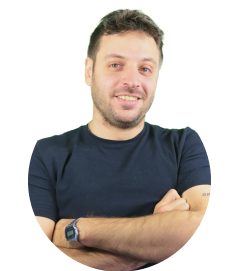
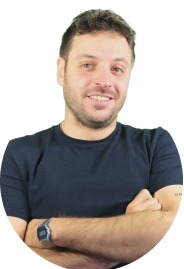
Creación de estilo de AboutTeam para mobile implementando metodología BEM

Changed region(s): [[0.0, 0.0297, 1.0, 1.0]]

diff --git a/src/components/About/AboutTeam.js b/src/components/About/AboutTeam.js
@@ -1,7 +1,7 @@
 import React from 'react';
 
-// Logos
-import linkedinLogo from "../../assets/img/icons/aboutLinkedinLogo.png";
+// Componentes
+import AboutTeamCard from './AboutTeamCard';
 
 // Team avatars
 import jobCarreraAvatar from "../../assets/img/team/jobCarreraDiaz.png";
@@ -11,144 +11,45 @@ import pedroNicholsonAvatar from "../../assets/img/team/pedroNicholson.png";
 import juanPorrazzoAvatar from "../../assets/img/team/juanPorrazzo.png";
 
 function AboutTeam() {
-
+    const teamList = [
+        {
+            name: "Job Carrera Diaz",
+            function: "Dir. de inmuebles",
+            linkedin: "https://www.linkedin.com/in/job-carrera-diaz-3471a325/",
+            avatar: jobCarreraAvatar
+        },
+        {
+            name: "Mariela Schenone",
+            function: "Dir. de estructuración financiera",
+            linkedin: "https://www.linkedin.com/in/mariela-schenone-1890a43/",
+            avatar: marielaScheloneAvatar
+        },
+        {
+            name: "Pedro Silvestri",
+            function: "Dir. financiero",
+            linkedin: "https://www.linkedin.com/in/pedro-silvestri-07300b2a/",
+            avatar: pedroSilvestriAvatar
+        },
+        {
+            name: "Pedro Nicholson",
+            function: "Dir. de legales",
+            linkedin: "https://www.linkedin.com/in/pedro-nicholson-ba737b9/",
+            avatar: pedroNicholsonAvatar
+        },
+        {
+            name: "Juan Porrazzo",
+            function: "Tech",
+            linkedin: "https://www.linkedin.com/in/juan-porrazzo-969b8383/",
+            avatar: juanPorrazzoAvatar
+        }
+    ]
     return (
-        <section className="aboutTeam">
-            <h2>Conoce al equipo</h2>
+        <section id="aboutTeam">
+            <h2 className='section_subTitle'>Conoce al equipo</h2>
             <ul>
-                <li>
-                    <div className="aboutTeamImage">
-                        <div>
-                            <img
-                                id='jobCarreraAvatar'
-                                alt="aboutTeamMemberImg"
-                                src={jobCarreraAvatar}
-                            />
-                        </div>
-                    </div>
-                    <div className="aboutTeamInfo">
-                        <h3>Job Carrera Diaz</h3>
-                        <p>Director de inmuebles</p>
-                        <a 
-                            target="_blank"
-                            href="https://www.linkedin.com/in/job-carrera-diaz-3471a325/"
-                            rel="noopener noreferrer"
-                        >
-                            <div className="aboutTeamlinkedInLogo">
-                                <img
-                                    src={linkedinLogo}
-                                    alt="linkedInLogo"
-                                />
-                            </div>
-                        </a>
-                    </div>
-                </li>
-                <li>
-                    <div className="aboutTeamImage">
-                        <div>
-                            <img
-                                id='marielaScheloneAvatar'
-                                alt="aboutTeamMemberImg"
-                                src={marielaScheloneAvatar}
-                            />
-                        </div>
-                    </div>
-                    <div className="aboutTeamInfo">
-                        <h3>Mariela Schenone</h3>
-                        <p>Directora financiera, fiscal y de estructuración</p>
-                        <a 
-                            target="_blank"
-                            href="https://www.linkedin.com/in/mariela-schenone-1890a43/"
-                            rel="noopener noreferrer"
-                        >
-                            <div className="aboutTeamlinkedInLogo">
-                                <img
-                                    src={linkedinLogo}
-                                    alt="linkedInLogo"
-                                />
-                            </div>
-                        </a>
-                    </div>
-                </li>
-                <li>
-                    <div className="aboutTeamImage">
-                        <div>
-                            <img
-                                id="pedroSilvestriAvatar"
-                                alt="aboutTeamMemberImg"
-                                src={pedroSilvestriAvatar}
-                            />
-                        </div>
-                    </div>
-                    <div className="aboutTeamInfo">
-                        <h3>Pedro Silvestri</h3>
-                        <p>Director financiero</p>
-                        <a 
-                            target="_blank" href="https://www.linkedin.com/in/pedro-silvestri-07300b2a/" rel="noopener noreferrer"
-                        >
-                            <div className="aboutTeamlinkedInLogo">
-                                <img
-                                    src={linkedinLogo}
-                                    alt="linkedInLogo"
-                                />
-                            </div>
-                        </a>
-                    </div>
-                </li>
-                <li>
-                    <div className="aboutTeamImage">
-                        <div>
-                            <img
-                                id="pedroNicholsonAvatar"
-                                alt="aboutTeamMemberImg"
-                                src={pedroNicholsonAvatar}
-                            />
-                        </div>
-                    </div>
-                    <div className="aboutTeamInfo">
-                        <h3>Pedro Nicholson</h3>
-                        <p>Director de legales</p>
-                        <a
-                            target="_blank" 
-                            href="https://www.linkedin.com/in/pedro-nicholson-ba737b9/"
-                            rel="noopener noreferrer"   
-                        >
-                            <div className="aboutTeamlinkedInLogo">
-                                <img
-                                    src={linkedinLogo}
-                                    alt="linkedInLogo"
-                                />
-                            </div>
-                        </a>
-                    </div>
-                </li>
-                <li>
-                    <div className="aboutTeamImage" >
-                        <div>
-                            <img
-                                id="juanPorrazzoAvatar"
-                                alt="aboutTeamMemberImg"
-                                src={juanPorrazzoAvatar}
-                            />
-                        </div>
-                    </div>
-                    <div className="aboutTeamInfo">
-                        <h3>Juan Porrazo</h3>
-                        <p>Tech</p>
-                        <a
-                            target="_blank"
-                            href="https://www.linkedin.com/in/juan-porrazzo-969b8383/"
-                            rel="noopener noreferrer"   
-                        >
-                            <div className="aboutTeamlinkedInLogo">
-                                <img
-                                    src={linkedinLogo}
-                                    alt="linkedInLogo"
-                                />
-                            </div>
-                        </a>
-                    </div>
-                </li>
+                {teamList.map((teamMember, index) => { return (
+                    <AboutTeamCard teamMember={teamMember} key={index} />
+                )})}
             </ul>
         </section>
     )

diff --git a/src/assets/css/about.css b/src/assets/css/about.css
@@ -283,26 +283,33 @@ main{
 
 /*! #### Slogan ####*/
 
-/** #### Team ####*/
+/** #### CONOCE AL EQUIPO ####*/
 
-.aboutTeam{
-    min-height: fit-content;
-    height: 115vh !important;
+#aboutTeam{
+    height: fit-content;
     flex-direction: column;
     margin: 2% 0;
+    
 }
-.aboutTeam h2{
-    text-align: center;
+#aboutTeam .section_subTitle{
+    font-size: 2em;
 }
 
-.aboutTeam ul{
+#aboutTeam ul{
     width: 100%;
+    height: fit-content;
+    display: flex;
+    justify-content: center;
     flex-wrap: wrap;
+    padding: 3% 0;
 }
-.aboutTeam li{
+.aboutTeamCard{
+    display: flex;
     flex-direction: column;
-    width: 30%;
-    padding: 2% 0;
+    align-items: center;
+    width: 40%;
+    padding: 0% ;
+    margin: 0 5% ;
 }
 
 .aboutTeamImage{
@@ -310,44 +317,54 @@ main{
     height: 150px;
     background: linear-gradient(113.75deg, rgba(255, 178, 0, 0.6) 12.54%, rgba(117, 251, 90, 0.522) 64.51%, rgba(194, 212, 255, 0.522) 93.52%);
     border-radius: 50rem;
+    margin: 30% 0 5% 0;
+    display: flex;
+    justify-content: center;
+    align-items: center;
 }
 .aboutTeamImage div{
     width: 75%;
     height: 75%;
     background-color: #FFEDC2;
     border-radius: 50rem;
+    position: relative;
 }
 .aboutTeamImage img{
     position: absolute;
     bottom: 0;
-}
-#jobCarreraAvatar{
     width: 100%;
 }
-#marielaScheloneAvatar{
-    width: 155%;
-}
-#pedroSilvestriAvatar{
-    width: 200%;
-}
-#pedroNicholsonAvatar{
-    width: 125%;
-}
-#juanPorrazzoAvatar{
-    width: 130%;
-}
+
 
 .aboutTeamInfo{
-    flex-direction: column;
+    display: flex;
+    height: 40%;
     justify-content: center;
-    align-items: center;
+    align-items: flex-start;
+    flex-wrap: wrap;
 }
 .aboutTeamInfo *{
     text-align: center;
 }
-.aboutTeamInfo{
-    font-size: 1em;
-    font-weight: 500;
+.aboutTeamInfo h3{
+    width: 100%;
+    font-size: 1.3em;
+    font-weight: 600;
+    margin: 0;
+    padding: 0;
+}
+.aboutTeamInfo p{
+    width: 100%;
+    font-size: 1.3em;
+    font-weight: 400;
+    height: fit-content;
+    display: flex;
+    flex-direction: column;
+    justify-content: flex-start;
+    align-items: center;
+    line-height: 1em;
+    padding: 0;
+    margin: 0;
 }
 
 .aboutTeamInfo a{
@@ -357,7 +374,9 @@ main{
     display: flex;
     justify-content: center;
     align-items: center;
+    align-self: flex-end;
     padding: 2px;
+    margin: 0;
     border-radius: 50rem;
     background: linear-gradient(to right, #004DFF, #FF00CC);
     z-index: 0;
@@ -368,7 +387,7 @@ main{
     align-items: center;
     width: 100%;
     height: 100%;
-    background-color: #FBFAFF;
+    background-color: #E5E5E5;
     z-index: 5;
     border-radius: 50rem;
 }
@@ -377,7 +396,6 @@ main{
     width: 20px;
     height: 20px;
     z-index: 5;
- 
 }
 
 /*! ########################################*/

diff --git a/src/components/About/AboutTeamCard.js b/src/components/About/AboutTeamCard.js
@@ -1,0 +1,38 @@
+import React from 'react';
+
+// Logos
+import linkedinLogo from "../../assets/img/icons/aboutLinkedinLogo.png";
+
+function AboutTeamCard(props) {
+    const teamMember=props.teamMember;
+    return (
+            <li className='aboutTeamCard'>
+                <div className="aboutTeamImage">
+                    <div>
+                        <img
+                            alt="aboutTeamMemberImg"
+                            src={teamMember.avatar}
+                        />
+                    </div>
+                </div>
+                <div className="aboutTeamInfo">
+                    <h3>{teamMember.name}</h3>
+                    <p>{teamMember.function}</p>
+                    
+                    <a 
+                        target="_blank"
+                        href={teamMember.linkedin}
+                        rel="noopener noreferrer"
+                    >
+                        <div className="aboutTeamlinkedInLogo">
+                            <img
+                                src={linkedinLogo}
+                                alt="linkedInLogo"
+                            />
+                        </div>
+                    </a>
+                </div>
+            </li>
+    )
+}
+export default AboutTeamCard;

diff --git a/src/components/About/AboutSlogan.js b/src/components/About/AboutSlogan.js
@@ -1,5 +1,6 @@
 import React from 'react';
-import { NavLink } from 'react-router-dom';
+
+// Componentes
 import DegradedLink from '../DegradedLink';
 
 function AboutSlogan() {
